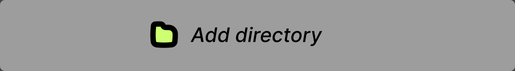
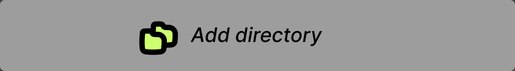
buttons renamed + now there is add folder not add file in gui

Changed region(s): [[0.2485, 0.3944, 0.3417, 0.7887]]

diff --git a/src/manga_kindle/gui.py b/src/manga_kindle/gui.py
@@ -15,7 +15,7 @@ class Gui(tk.Tk):
         self.clickable_here()
         self.button_custom_cover()
         self.button_add_directory()
-        self.button_add_file()
+        self.button_add_folder()
         self.button_convert()
 
     def window(self):
@@ -141,14 +141,14 @@ class Gui(tk.Tk):
             height=37.0
         )
 
-    def button_add_file(self):
+    def button_add_folder(self):
         self.button_image_2 = PhotoImage(
             file=self.gui_functionality.relative_to_assets("button_2.png"))
         self.button_2 = Button(
             image=self.button_image_2,
             borderwidth=0,
             highlightthickness=0,
-            command=lambda: [self.entry_2.delete(0,"end"), self.entry_2.insert(0, self.gui_functionality.browseFiles())],
+            command=lambda: [self.entry_2.delete(0,"end"), self.entry_2.insert(0, self.gui_functionality.browseFolder())],
             relief="flat"
         )
         self.button_2.place(

diff --git a/src/manga_kindle/gui_functionality.py b/src/manga_kindle/gui_functionality.py
@@ -22,11 +22,11 @@ class GuiFunctionality:
         if directory_path:
             return directory_path
 
-    def browseFiles(self):
-        file_path = filedialog.askopenfilename()
-        if file_path:
-            file_name = os.path.basename(file_path)
-            return file_name
+    def browseFolder(self):
+        folder_path = filedialog.askdirectory()
+        if folder_path:
+            folder_name = os.path.basename(folder_path)
+            return folder_name
     
     def here_instructions_md(self, event):
         instructions = ("https://github.com/8uziak/manga-kindle/blob/master/docs/instructions.md")
